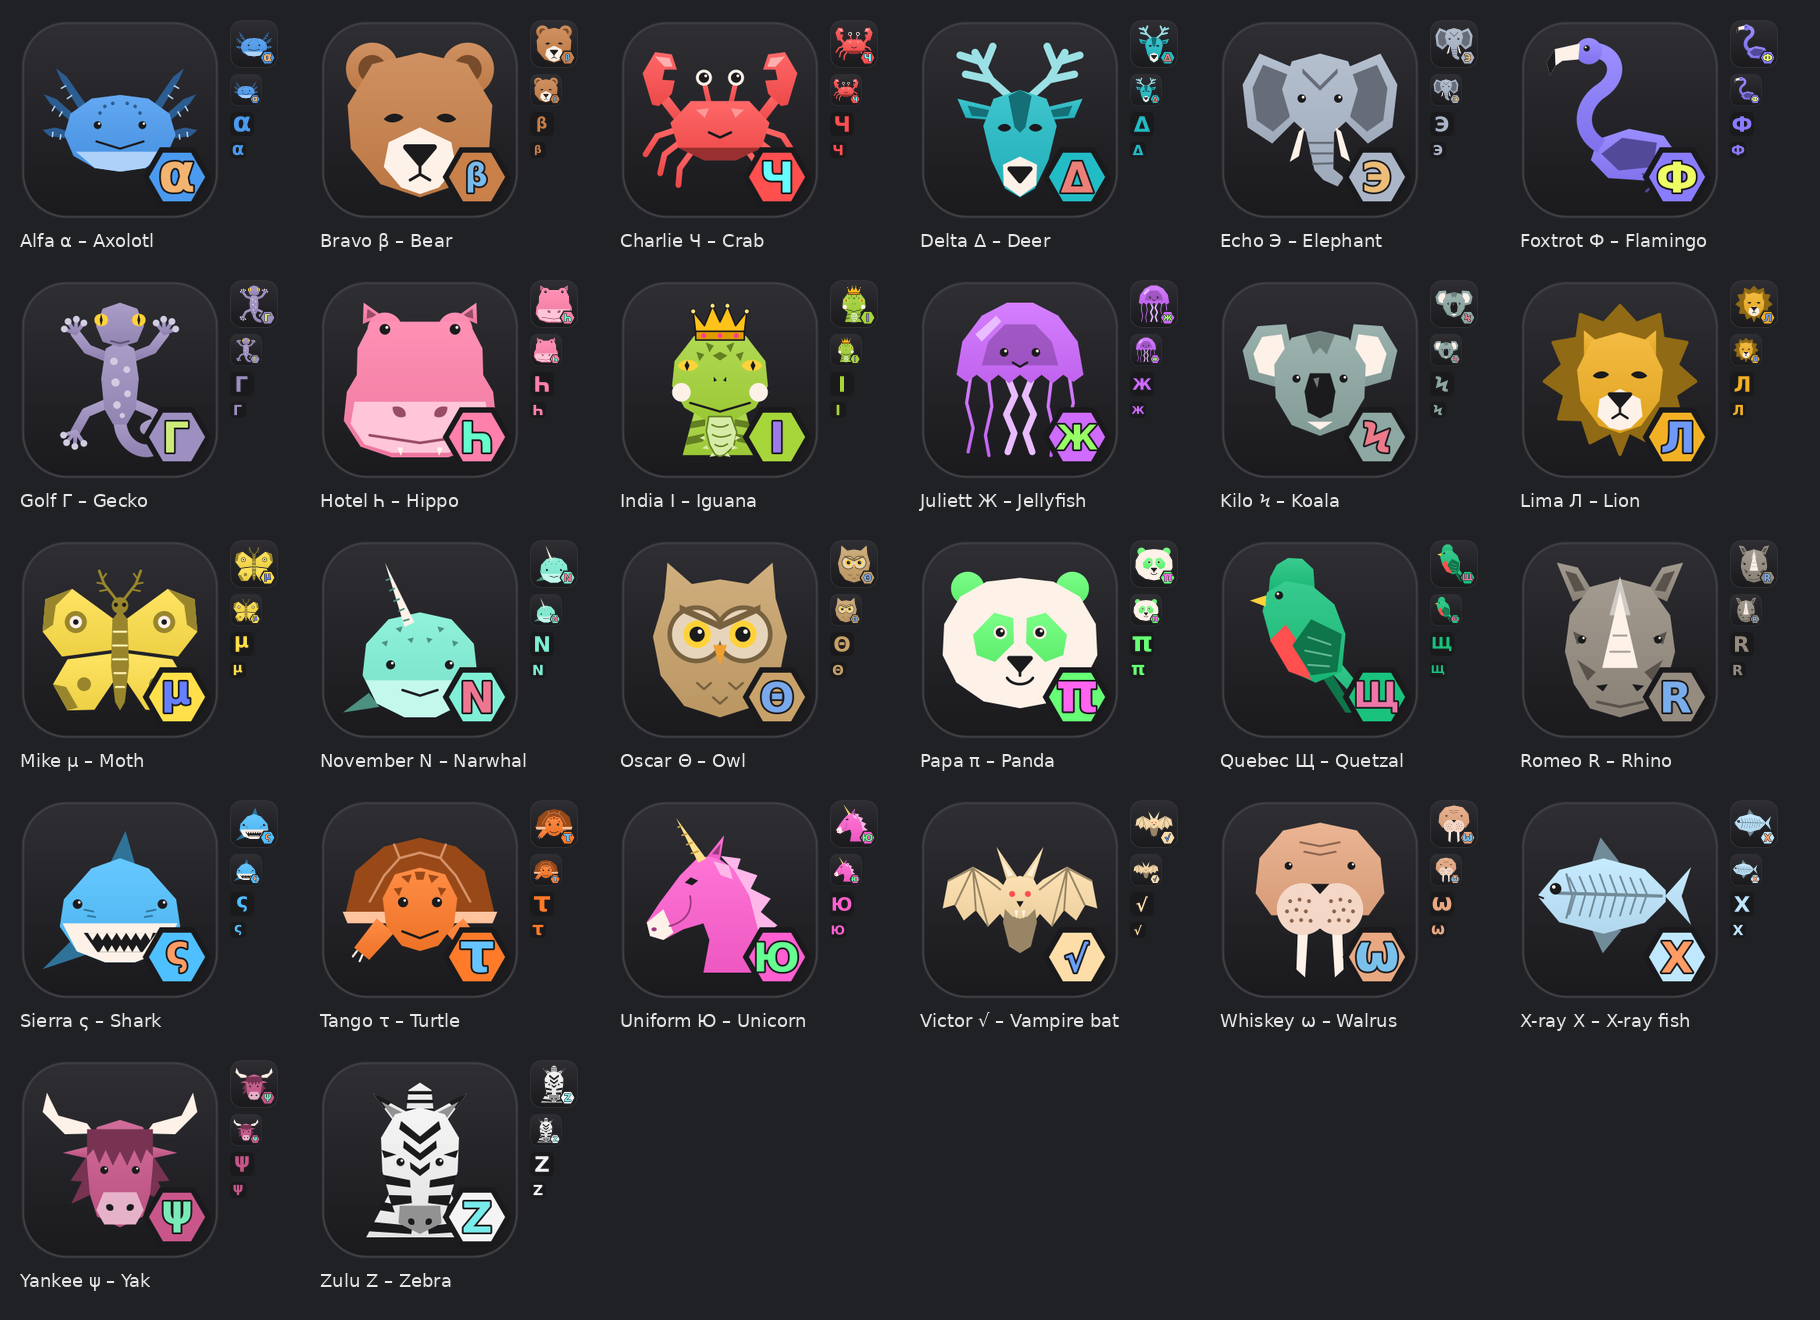
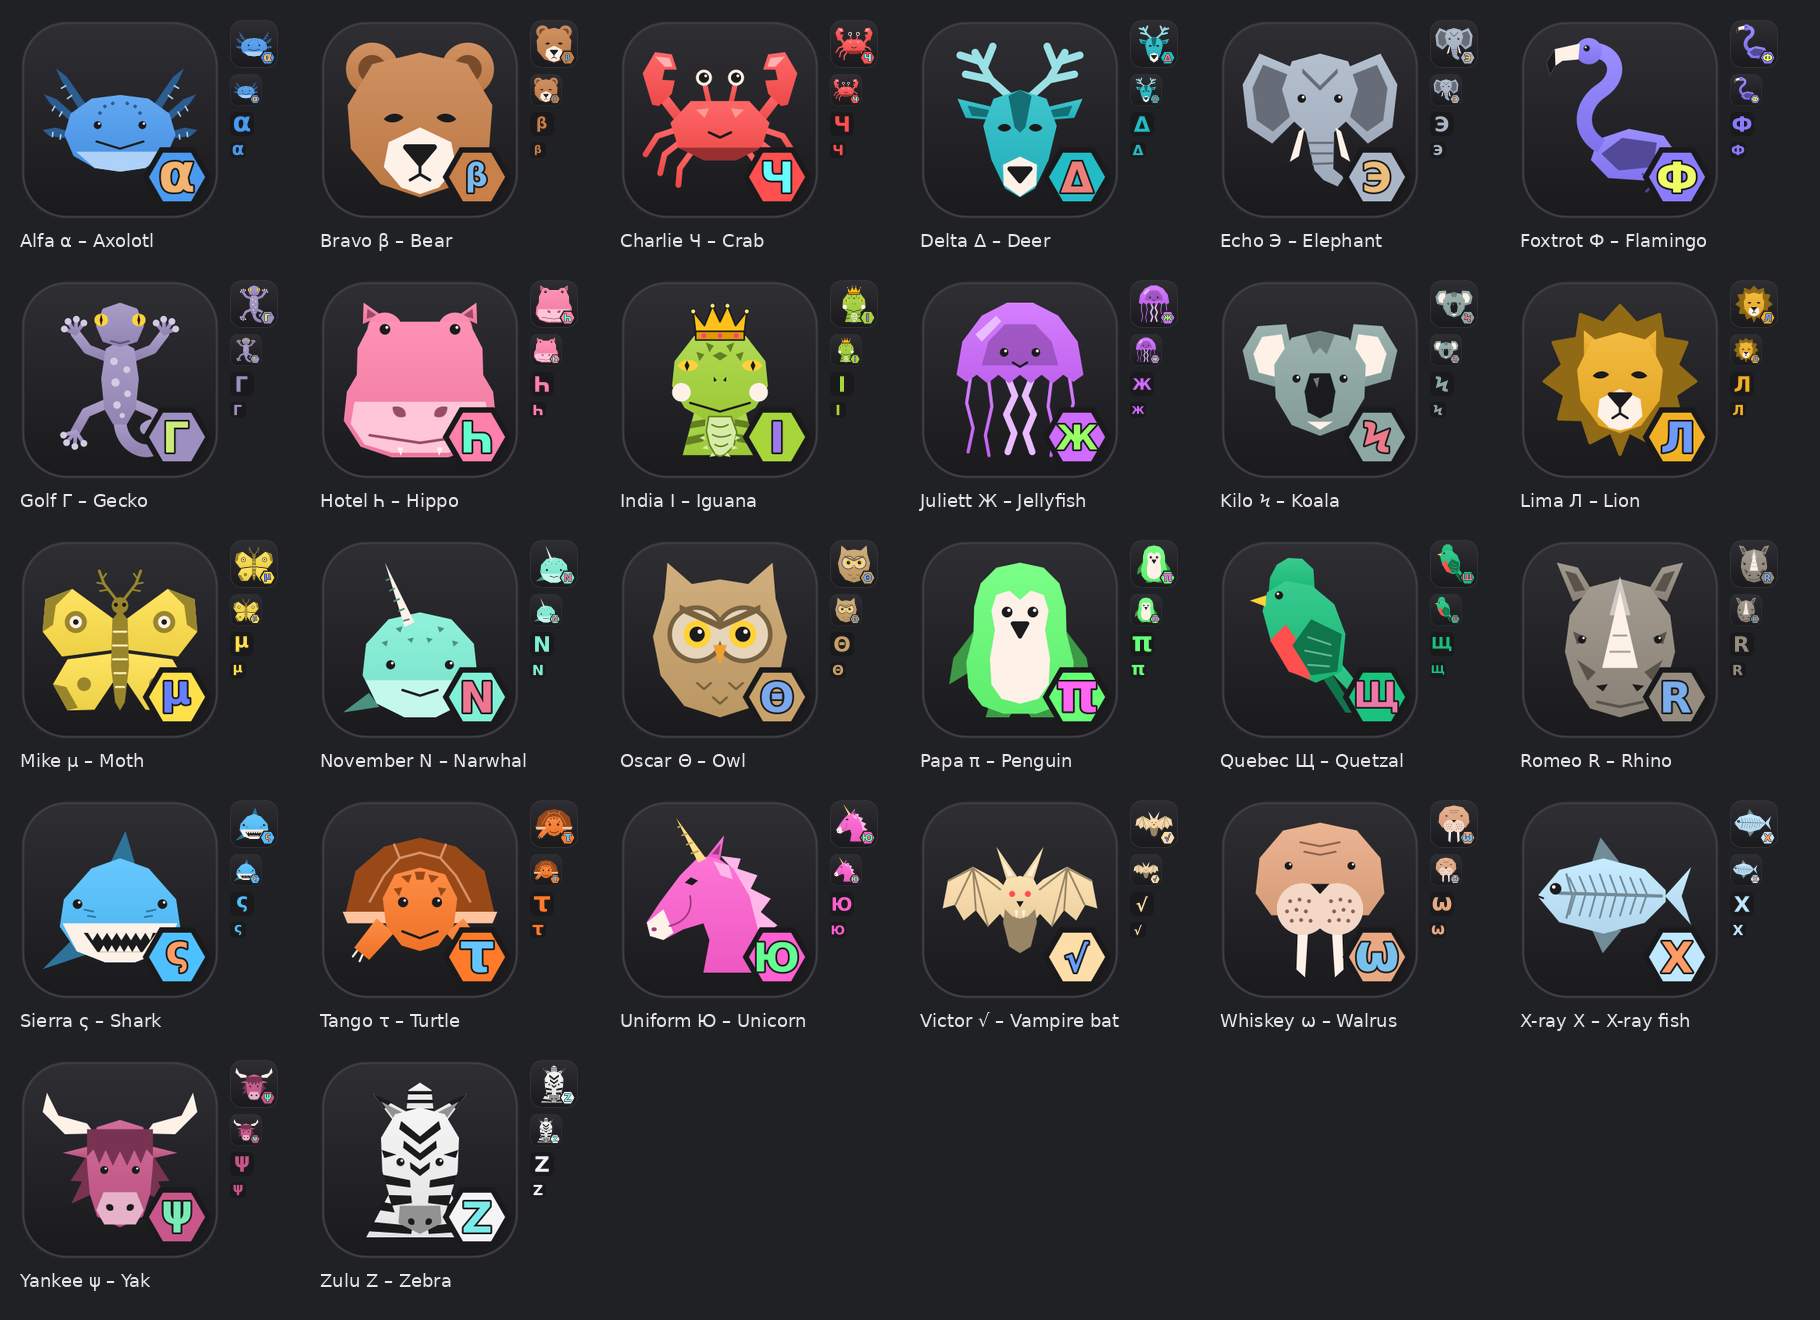
Papa is a penguin (0.11.0)
The panda's round head and round ears looked too much like the bear and
koala at 32 px and up. The penguin keeps Papa's lime and π and is the
only upright full body in the set. 16 and 24 px (letter only) are
unchanged.

Changed region(s): [[0.4923, 0.4038, 0.6462, 0.5591]]

diff --git a/AGENTS.md b/AGENTS.md
@@ -22,7 +22,8 @@ on a taskbar or dock. The set is deliberately app-neutral: don't brand it for an
 - Letter badge: flat-topped hexagon, bottom-right, filled with the icon colour; the letter is the
   **complementary colour** with a thin dark outline. Don't put the letter on the animal itself.
 - Sizes ≤ 24 px use the letter-only `-small.svg` (letter in icon colour on charcoal).
-- The panda smiles (it's deliberately different from the bear).
+- Papa is a penguin, the set's only upright full body. It was a panda until 0.11.0, but a round
+  head with round ears looked too much like the bear and koala at 32 px and up.
 
 ## Colours
 Each icon has its own colour in `icons.json`. Before changing one, check its neighbours at small sizes.
@@ -30,8 +31,8 @@ Known near-pairs that were deliberately resolved: hippo is the only bright pink;
 violet, not pink, for the same reason. The rhino is warm grey: rose-clay clashed with the hippo, and
 terracotta with the bear's caramel (almost identical with red-green colour blindness). The koala is
 sage-grey: light blue sat too close to X-ray, Echo and Sierra. The vampire bat is cream: green
-crowded Quebec, Papa and India (whose I is close to √ in shape). The panda is lime (#66ff75): its
-mint green (#59e0a0) sat between November and Quebec, the closest colours in the set, and π is
+crowded Quebec, Papa and India (whose I is close to √ in shape). Papa is lime (#66ff75): its
+earlier mint green (#59e0a0) sat between November and Quebec, the closest colours in the set, and π is
 close in shape to both Щ (a bar on legs, upside down) and N (two uprights). The lion's gold, bear's
 caramel and turtle's orange sit close together, so keep new warm colours away from them. Measure colour
 closeness as the eye sees it (CIEDE2000), also as seen with deuteranopia, and render a comparison

diff --git a/README.md b/README.md
@@ -60,7 +60,7 @@ all differ clearly in colour.
 | Mike | μ | Moth | `#ffe04a` |
 | November | N | Narwhal | `#7ff0d6` |
 | Oscar | Θ | Owl | `#c9a26a` |
-| Papa | π | Panda | `#66ff75` |
+| Papa | π | Penguin | `#66ff75` |
 | Quebec | Щ | Quetzal | `#19c37d` |
 | Romeo | R | Rhino | `#958b7f` |
 | Sierra | ς | Shark | `#4fc0ff` |
@@ -257,7 +257,7 @@ once published, the zip can't be replaced, so a fix goes out as a new version. A
 ## Editing
 
 - **Change a colour or letter:** first measure the candidates against the rest of the set, then
-  edit `icons.json` and run `./build.sh --full`. For example, to try two colours for the panda or
+  edit `icons.json` and run `./build.sh --full`. For example, to try two colours for the penguin or
   two letters for Victor:
 
   ```sh

diff --git a/CHANGELOG.md b/CHANGELOG.md
@@ -9,6 +9,14 @@ icons or formats, and the patch number for fixes that keep every icon looking th
 The newest entry's version must match the `VERSION` file (the tests check), and its text becomes
 the GitHub release notes (README, Releasing).
 
+## 0.11.0 (2026-11-12)
+
+- Papa is now a penguin instead of a panda, in the same lime and with the same π. The panda's
+  round head and round ears looked too much like Bravo's bear and Kilo's koala at 32 px and up;
+  the penguin is the only upright full body in the set. At 16 and 24 px nothing changes, since
+  those sizes show only the letter.
+- No other icon, letter, colour or file name changed.
+
 ## 0.10.0 (2026-11-09)
 
 - Papa's panda is now lime (`#66ff75`) instead of mint green (`#59e0a0`). The mint sat between
